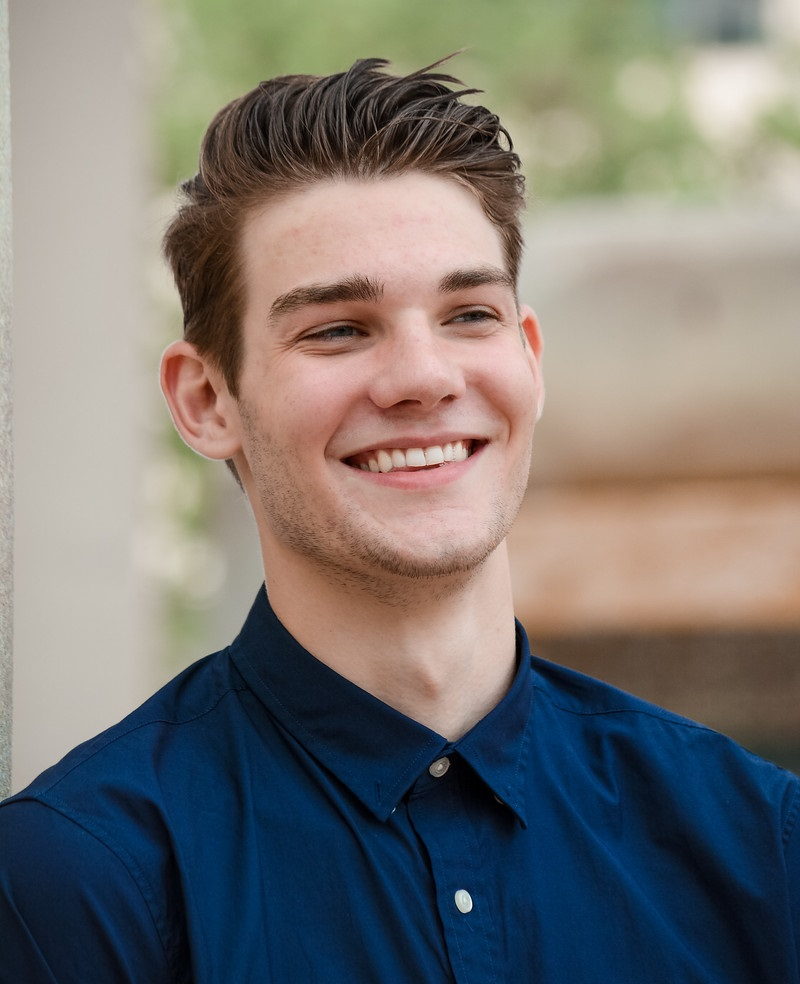
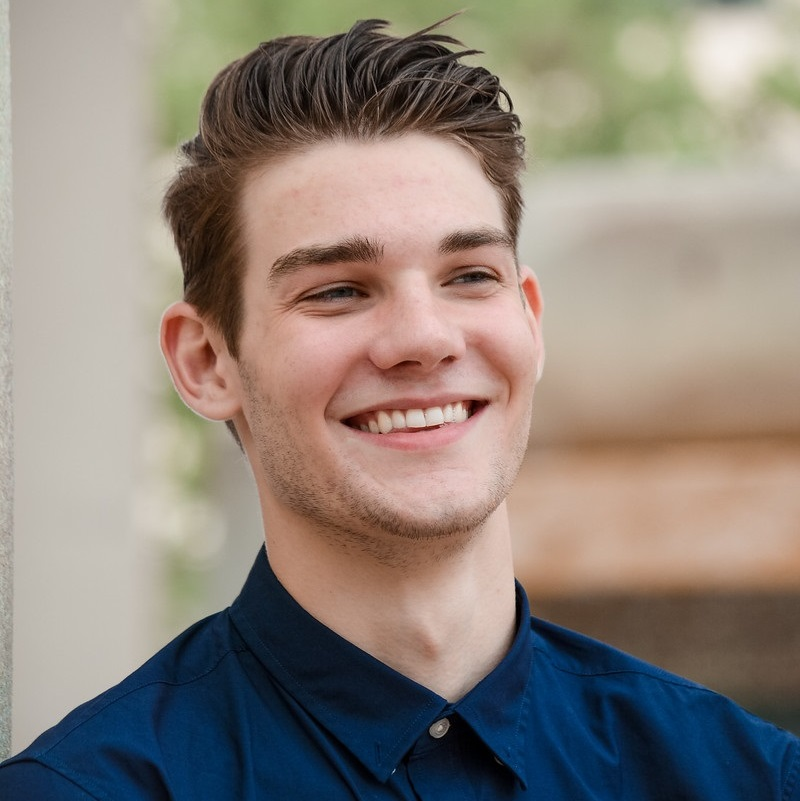
Small formatting changes

diff --git a/index.html b/index.html
@@ -23,7 +23,7 @@
             <div class="container">
                 <div class="row">
                     <div class="col-4 col-5-large col-12-medium">
-                        <span class="image fit"><img src="images/avatar.jpg" alt="A picture of me, the handsome and humble developer" /> </span>
+                        <span class="image featured"><img src="images/avatar.jpg" alt="A picture of me, the handsome and humble developer" /> </span>
                     </div>
                     <div class="col-8 col-7-large col-12-medium">
                         <header>
@@ -114,7 +114,7 @@
                         <article class="box style2">
                             <a href="https://github.com/andrewnoe" class="image featured" target="_blank" ><img src="images/surgeon.png" alt="Digital art of a surgeon"></a>
                             <h3><a href="https://github.com/andrewnoe" target="_blank" > Elective Surgery Rescheduler</a></h3>
-                            <p>A React web app for helping UTHSCSA reschedule elective surgeries during COVID 19.</p>
+                            <p>A React web app for helping UTHSCSA reschedule elective surgeries during COVID 19. (Unfortunately I cannot share the code for this project, but I can certainly talk about it!))</p>
                         </article>
                     </div>
 

diff --git a/assets/sass/main.scss b/assets/sass/main.scss
@@ -438,7 +438,7 @@
 		&.featured {
 			display: block;
 			width: 100%;
-			margin: 0 0 2em 0;
+			margin: 0 0 500px 0;
 		}
 
 		&.left {
